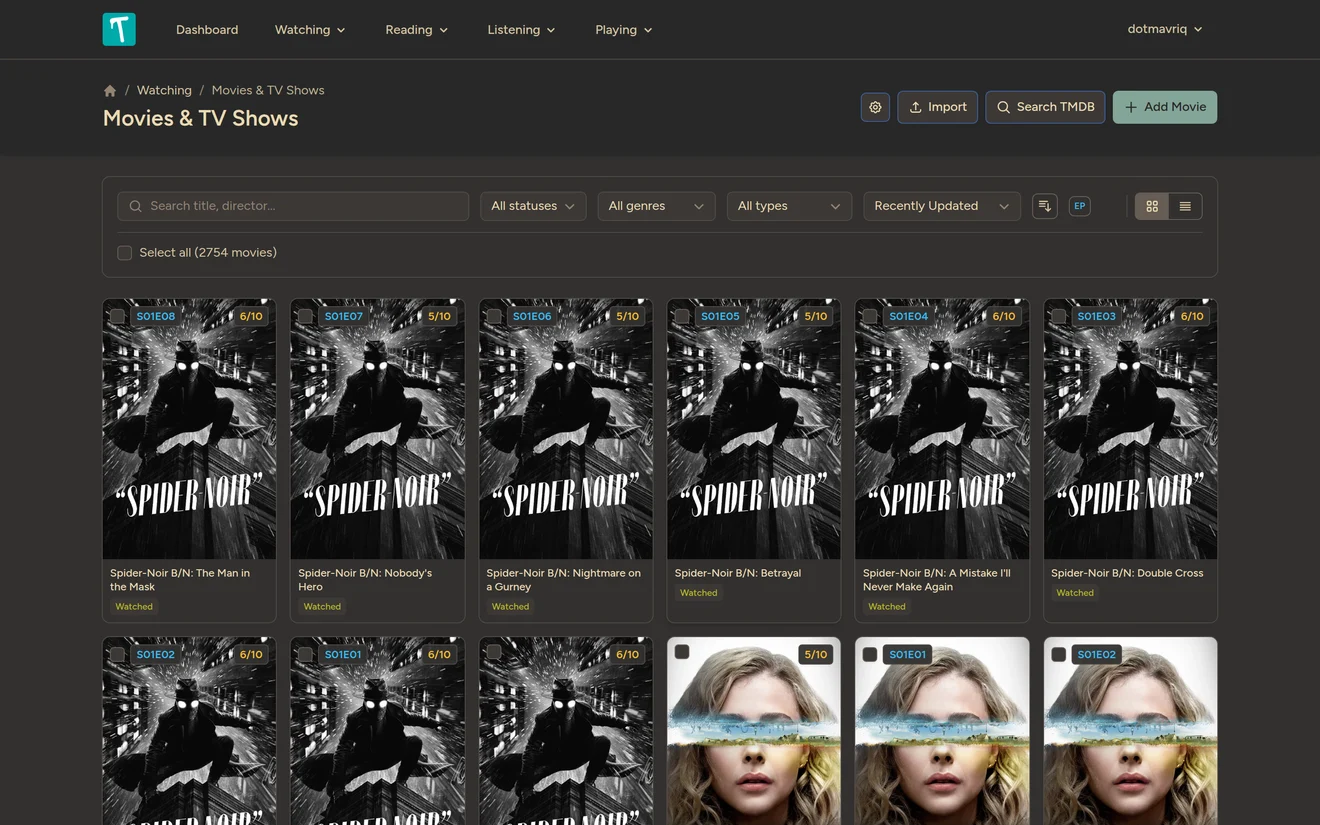
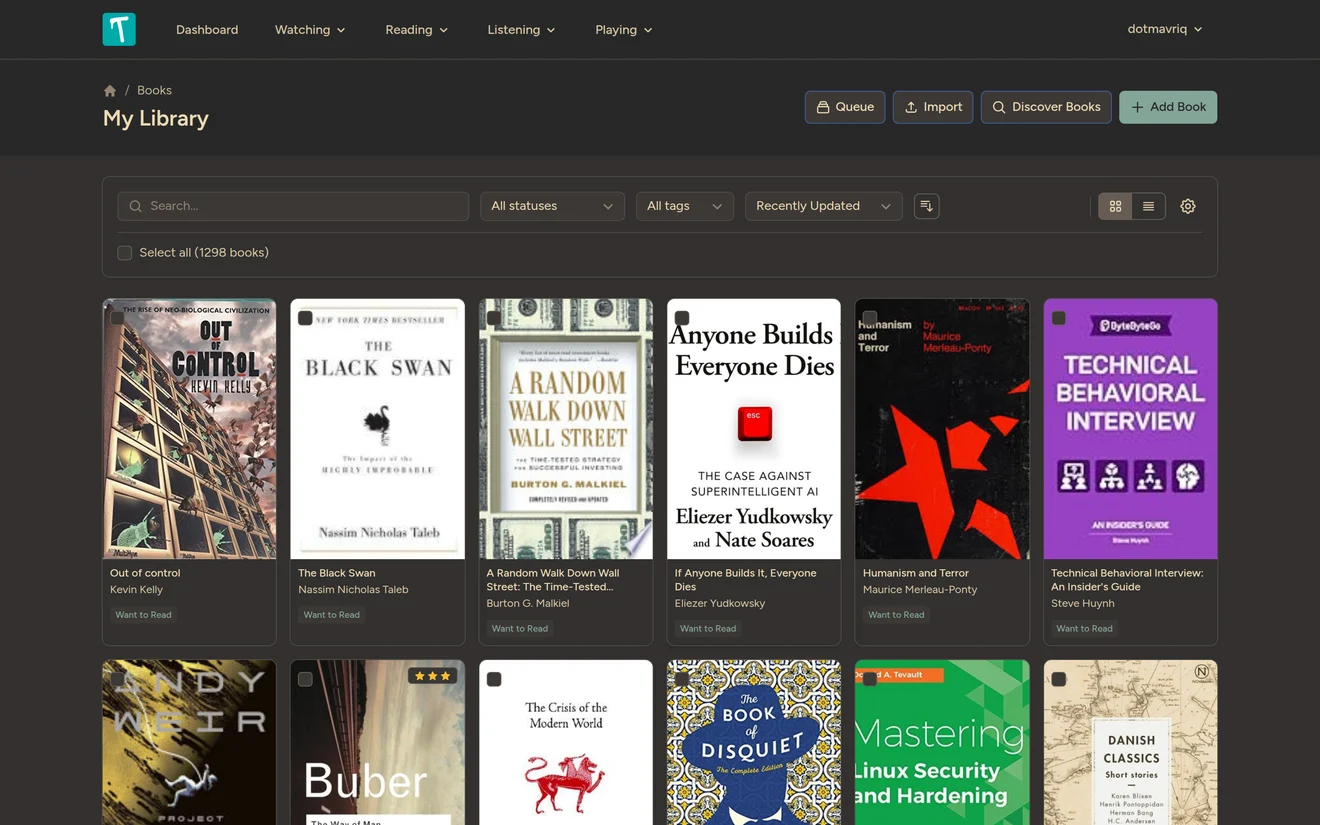
landing: use the books library for the screenshot
Swaps the 'See it in action' shot to the book grid (more varied covers) and
updates the frame URL to /books.

diff --git a/resources/views/welcome.blade.php b/resources/views/welcome.blade.php
@@ -271,8 +271,8 @@
             <h2>Your whole library, one tidy grid.</h2>
             <p class="sub" style="margin-left:auto;margin-right:auto">Search, filter, rate and revisit — the same calm interface across every kind of media.</p>
             <div class="frame">
-                <div class="chrome"><i></i><i></i><i></i><span class="url">teal.yourserver.tld/movies</span></div>
-                <img src="/brand/screenshot.webp" alt="The TEAL app showing a movie library grid on real data" loading="lazy">
+                <div class="chrome"><i></i><i></i><i></i><span class="url">teal.yourserver.tld/books</span></div>
+                <img src="/brand/screenshot.webp" alt="The TEAL app showing a book library grid on real data" loading="lazy">
             </div>
             <p class="cap">↑ a real TEAL library, running on real data</p>
         </div>
